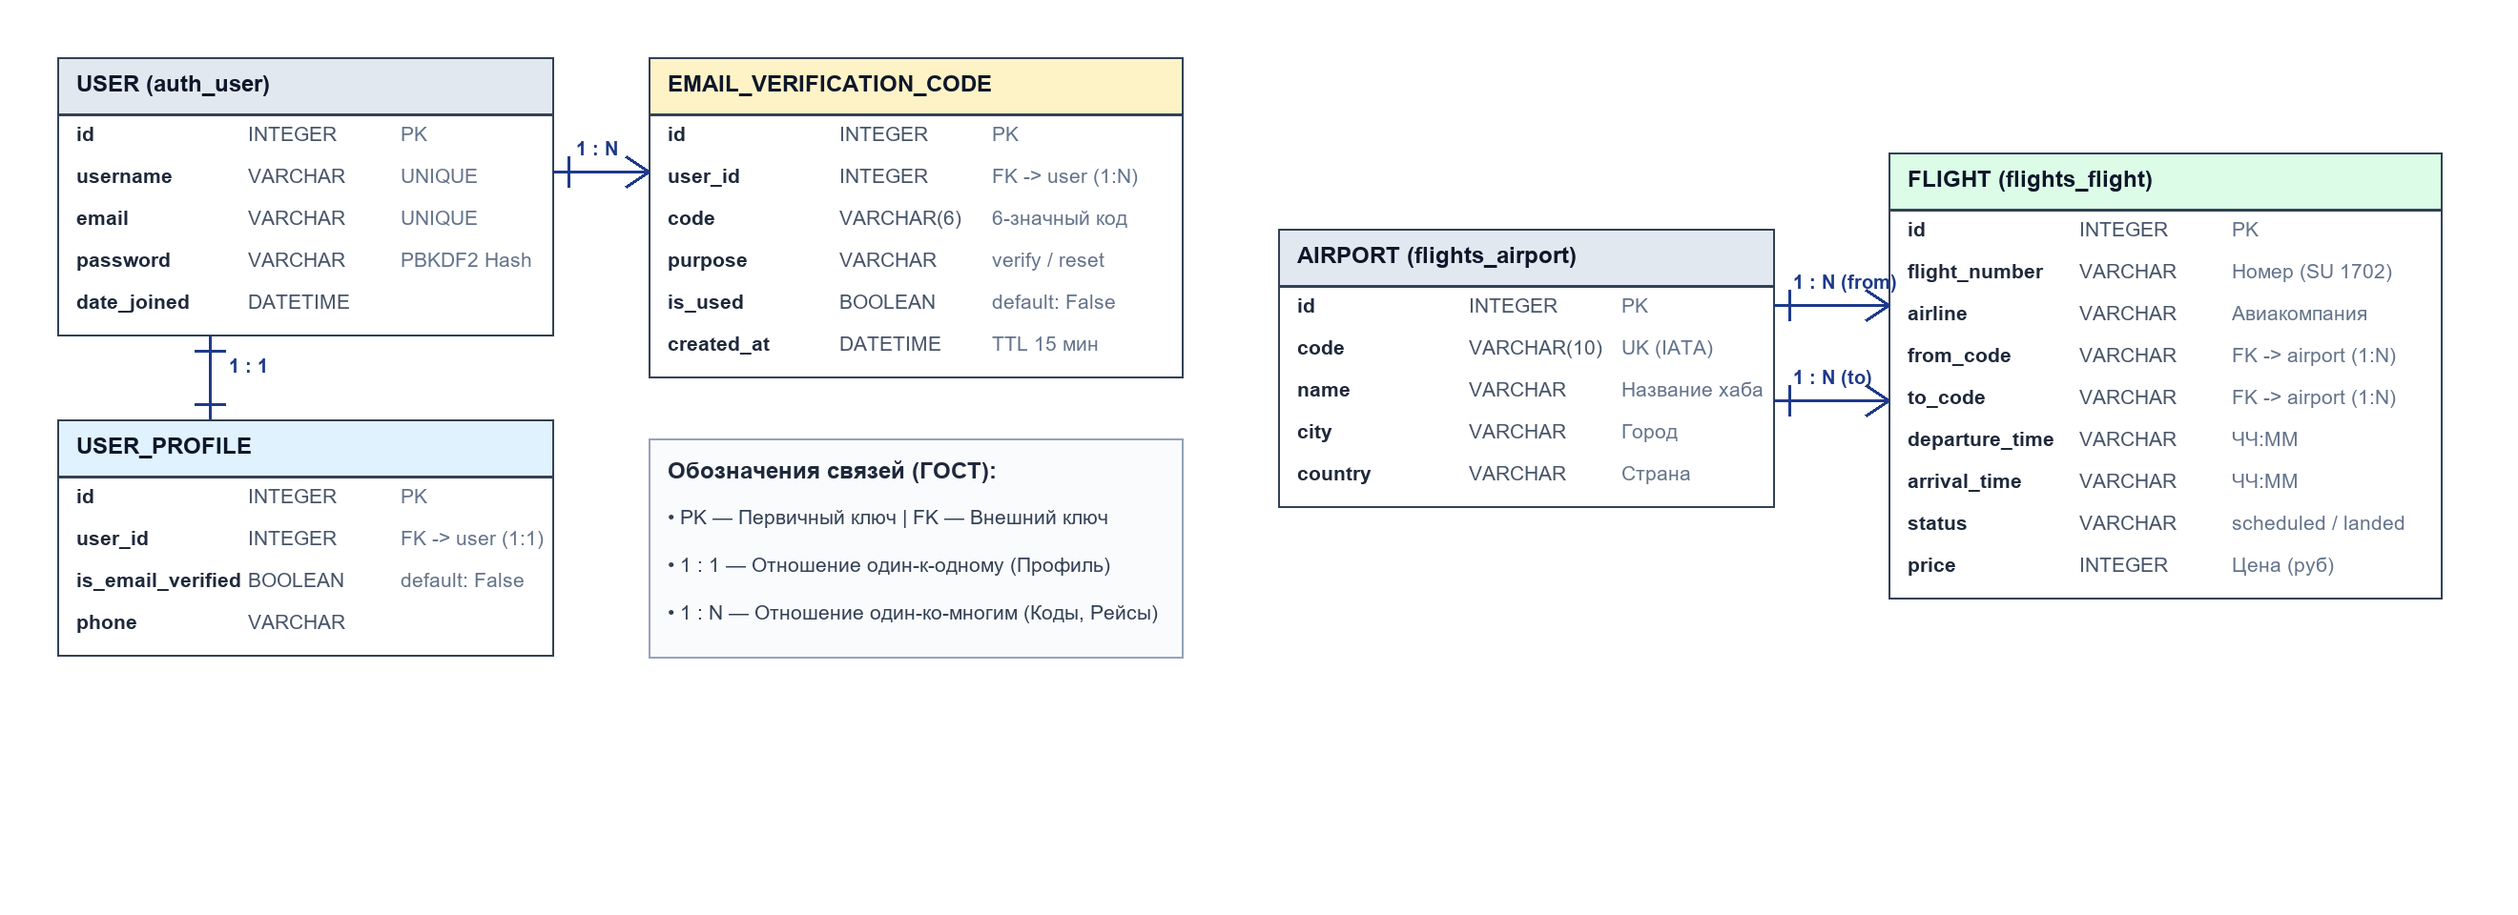
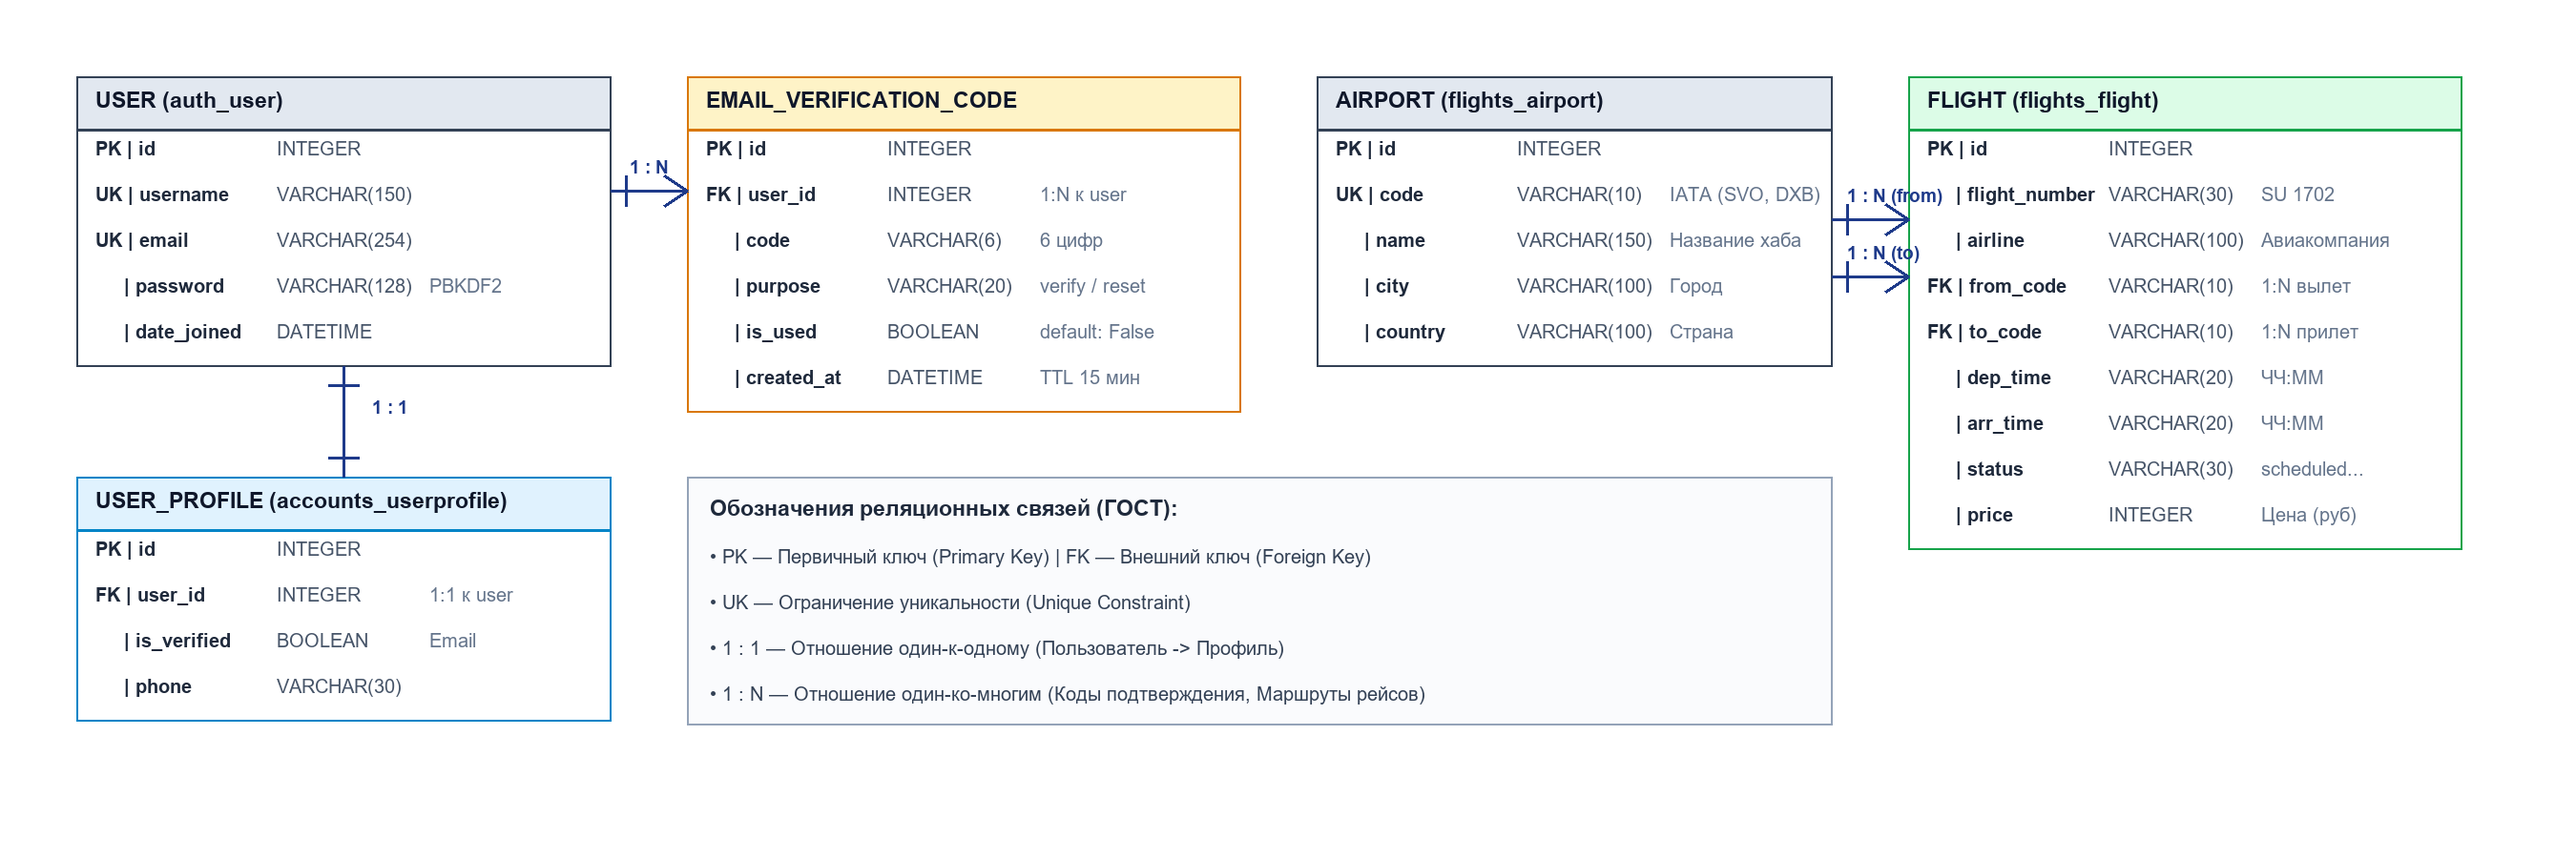
docs(diagrams): add editable draw.io file and compact 300 DPI PNG for ER diagram

diff --git a/docs/generate_er_diagram.py b/docs/generate_er_diagram.py
@@ -3,8 +3,7 @@ from PIL import Image, ImageDraw, ImageFont
 
 def generate_compact_er_diagram_png(output_path='docs/er_diagram.png'):
     scale = 2
-    # Much more compact: 1300 x 480 (instead of 1600 x 920)
-    w, h = 1320 * scale, 480 * scale
+    w, h = 1350 * scale, 450 * scale
 
     # Pure white background
     img = Image.new('RGB', (w, h), color='#FFFFFF')
@@ -13,41 +12,41 @@ def generate_compact_er_diagram_png(output_path='docs/er_diagram.png'):
     font_bold_path = 'C:/Windows/Fonts/arialbd.ttf'
     font_path = 'C:/Windows/Fonts/arial.ttf'
 
-    font_title = ImageFont.truetype(font_bold_path, 12 * scale)
-    font_field_bold = ImageFont.truetype(font_bold_path, 10.5 * scale)
-    font_field_reg = ImageFont.truetype(font_path, 10.5 * scale)
-    font_rel = ImageFont.truetype(font_bold_path, 10 * scale)
+    font_title = ImageFont.truetype(font_bold_path, 11.5 * scale)
+    font_field_bold = ImageFont.truetype(font_bold_path, 10 * scale)
+    font_field_reg = ImageFont.truetype(font_path, 10 * scale)
+    font_rel = ImageFont.truetype(font_bold_path, 9.5 * scale)
 
     def S(val):
         return int(val * scale)
 
     # Helper: draw table card
-    def draw_table(x, y, tw, title, fields, title_bg='#F1F5F9'):
-        th = 30
-        row_h = 22
-        total_h = th + len(fields) * row_h + 6
+    def draw_table(x, y, tw, title, fields, title_bg='#F1F5F9', border_color='#334155'):
+        th = 28
+        row_h = 24
+        total_h = th + len(fields) * row_h + 4
 
         # Header background
-        draw.rectangle([S(x), S(y), S(x + tw), S(y + th)], fill=title_bg, outline='#334155', width=S(1.2))
-        draw.text((S(x + 10), S(y + 7)), title, font=font_title, fill='#0F172A')
+        draw.rectangle([S(x), S(y), S(x + tw), S(y + th)], fill=title_bg, outline=border_color, width=S(1.2))
+        draw.text((S(x + 10), S(y + 6)), title, font=font_title, fill='#0F172A')
 
         # Body background
-        draw.rectangle([S(x), S(y + th), S(x + tw), S(y + total_h)], fill='#FFFFFF', outline='#334155', width=S(1.2))
+        draw.rectangle([S(x), S(y + th), S(x + tw), S(y + total_h)], fill='#FFFFFF', outline=border_color, width=S(1.2))
 
         # Fields
         cur_y = y + th + 4
         for fld in fields:
             name, ftype, note = fld[0], fld[1], fld[2] if len(fld) > 2 else ""
             
-            # Name & key
+            # Key / Name
             draw.text((S(x + 10), S(cur_y)), name, font=font_field_bold, fill='#1E293B')
             
             # Type
-            draw.text((S(x + 100), S(cur_y)), ftype, font=font_field_reg, fill='#475569')
+            draw.text((S(x + 105), S(cur_y)), ftype, font=font_field_reg, fill='#475569')
 
             # Note / constraint
             if note:
-                draw.text((S(x + 180), S(cur_y)), note, font=font_field_reg, fill='#64748B')
+                draw.text((S(x + 185), S(cur_y)), note, font=font_field_reg, fill='#64748B')
 
             cur_y += row_h
 
@@ -55,67 +54,66 @@ def generate_compact_er_diagram_png(output_path='docs/er_diagram.png'):
 
     # ================= 1. USER =================
     user_fields = [
-        ("id", "INTEGER", "PK"),
-        ("username", "VARCHAR", "UNIQUE"),
-        ("email", "VARCHAR", "UNIQUE"),
-        ("password", "VARCHAR", "PBKDF2 Hash"),
-        ("date_joined", "DATETIME", ""),
+        ("PK | id", "INTEGER", ""),
+        ("UK | username", "VARCHAR(150)", ""),
+        ("UK | email", "VARCHAR(254)", ""),
+        ("     | password", "VARCHAR(128)", "PBKDF2"),
+        ("     | date_joined", "DATETIME", ""),
     ]
-    u_x, u_y, u_w, u_h = draw_table(30, 30, 260, "USER (auth_user)", user_fields, '#E2E8F0')
+    u_x, u_y, u_w, u_h = draw_table(40, 40, 280, "USER (auth_user)", user_fields, '#E2E8F0')
 
     # ================= 2. USER_PROFILE =================
     profile_fields = [
-        ("id", "INTEGER", "PK"),
-        ("user_id", "INTEGER", "FK -> user (1:1)"),
-        ("is_email_verified", "BOOLEAN", "default: False"),
-        ("phone", "VARCHAR", ""),
+        ("PK | id", "INTEGER", ""),
+        ("FK | user_id", "INTEGER", "1:1 к user"),
+        ("     | is_verified", "BOOLEAN", "Email"),
+        ("     | phone", "VARCHAR(30)", ""),
     ]
-    p_x, p_y, p_w, p_h = draw_table(30, 220, 260, "USER_PROFILE", profile_fields, '#E0F2FE')
+    p_x, p_y, p_w, p_h = draw_table(40, 250, 280, "USER_PROFILE (accounts_userprofile)", profile_fields, '#E0F2FE', '#0284C7')
 
     # ================= 3. EMAIL_VERIFICATION_CODE =================
     code_fields = [
-        ("id", "INTEGER", "PK"),
-        ("user_id", "INTEGER", "FK -> user (1:N)"),
-        ("code", "VARCHAR(6)", "6-значный код"),
-        ("purpose", "VARCHAR", "verify / reset"),
-        ("is_used", "BOOLEAN", "default: False"),
-        ("created_at", "DATETIME", "TTL 15 мин"),
+        ("PK | id", "INTEGER", ""),
+        ("FK | user_id", "INTEGER", "1:N к user"),
+        ("     | code", "VARCHAR(6)", "6 цифр"),
+        ("     | purpose", "VARCHAR(20)", "verify / reset"),
+        ("     | is_used", "BOOLEAN", "default: False"),
+        ("     | created_at", "DATETIME", "TTL 15 мин"),
     ]
-    c_x, c_y, c_w, c_h = draw_table(340, 30, 280, "EMAIL_VERIFICATION_CODE", code_fields, '#FEF3C7')
+    c_x, c_y, c_w, c_h = draw_table(360, 40, 290, "EMAIL_VERIFICATION_CODE", code_fields, '#FEF3C7', '#D97706')
 
     # ================= 4. AIRPORT =================
     airport_fields = [
-        ("id", "INTEGER", "PK"),
-        ("code", "VARCHAR(10)", "UK (IATA)"),
-        ("name", "VARCHAR", "Название хаба"),
-        ("city", "VARCHAR", "Город"),
-        ("country", "VARCHAR", "Страна"),
+        ("PK | id", "INTEGER", ""),
+        ("UK | code", "VARCHAR(10)", "IATA (SVO, DXB)"),
+        ("     | name", "VARCHAR(150)", "Название хаба"),
+        ("     | city", "VARCHAR(100)", "Город"),
+        ("     | country", "VARCHAR(100)", "Страна"),
     ]
-    a_x, a_y, a_w, a_h = draw_table(670, 120, 260, "AIRPORT (flights_airport)", airport_fields, '#E2E8F0')
+    a_x, a_y, a_w, a_h = draw_table(690, 40, 270, "AIRPORT (flights_airport)", airport_fields, '#E2E8F0')
 
     # ================= 5. FLIGHT =================
     flight_fields = [
-        ("id", "INTEGER", "PK"),
-        ("flight_number", "VARCHAR", "Номер (SU 1702)"),
-        ("airline", "VARCHAR", "Авиакомпания"),
-        ("from_code", "VARCHAR", "FK -> airport (1:N)"),
-        ("to_code", "VARCHAR", "FK -> airport (1:N)"),
-        ("departure_time", "VARCHAR", "ЧЧ:ММ"),
-        ("arrival_time", "VARCHAR", "ЧЧ:ММ"),
-        ("status", "VARCHAR", "scheduled / landed"),
-        ("price", "INTEGER", "Цена (руб)"),
+        ("PK | id", "INTEGER", ""),
+        ("     | flight_number", "VARCHAR(30)", "SU 1702"),
+        ("     | airline", "VARCHAR(100)", "Авиакомпания"),
+        ("FK | from_code", "VARCHAR(10)", "1:N вылет"),
+        ("FK | to_code", "VARCHAR(10)", "1:N прилет"),
+        ("     | dep_time", "VARCHAR(20)", "ЧЧ:ММ"),
+        ("     | arr_time", "VARCHAR(20)", "ЧЧ:ММ"),
+        ("     | status", "VARCHAR(30)", "scheduled..."),
+        ("     | price", "INTEGER", "Цена (руб)"),
     ]
-    f_x, f_y, f_w, f_h = draw_table(990, 80, 290, "FLIGHT (flights_flight)", flight_fields, '#DCFCE7')
+    f_x, f_y, f_w, f_h = draw_table(1000, 40, 290, "FLIGHT (flights_flight)", flight_fields, '#DCFCE7', '#16A34A')
 
-    # ================= RELATIONSHIP ARROWS =================
+    # ================= СВЯЗИ (RELATIONSHIPS) =================
     c_line = '#1E3A8A'
 
     # 1. USER -> USER_PROFILE (1 : 1, vertical)
-    draw.line([S(u_x + 80), S(u_y + u_h), S(u_x + 80), S(p_y)], fill=c_line, width=S(1.8))
-    # 1:1 cross marks
-    draw.line([S(u_x + 72), S(u_y + u_h + 8), S(u_x + 88), S(u_y + u_h + 8)], fill=c_line, width=S(1.8))
-    draw.line([S(u_x + 72), S(p_y - 8), S(u_x + 88), S(p_y - 8)], fill=c_line, width=S(1.8))
-    draw.text((S(u_x + 90), S(u_y + u_h + 10)), "1 : 1", font=font_rel, fill=c_line)
+    draw.line([S(u_x + 140), S(u_y + u_h), S(u_x + 140), S(p_y)], fill=c_line, width=S(1.8))
+    draw.line([S(u_x + 132), S(u_y + u_h + 10), S(u_x + 148), S(u_y + u_h + 10)], fill=c_line, width=S(1.8))
+    draw.line([S(u_x + 132), S(p_y - 10), S(u_x + 148), S(p_y - 10)], fill=c_line, width=S(1.8))
+    draw.text((S(u_x + 155), S(u_y + u_h + 16)), "1 : 1", font=font_rel, fill=c_line)
 
     # 2. USER -> EMAIL_VERIFICATION_CODE (1 : N, horizontal)
     y_uc = u_y + 60
@@ -124,36 +122,36 @@ def generate_compact_er_diagram_png(output_path='docs/er_diagram.png'):
     # Crow foot
     draw.line([S(c_x - 12), S(y_uc - 8), S(c_x), S(y_uc)], fill=c_line, width=S(1.8))
     draw.line([S(c_x - 12), S(y_uc + 8), S(c_x), S(y_uc)], fill=c_line, width=S(1.8))
-    draw.text((S(u_x + u_w + 12), S(y_uc - 18)), "1 : N", font=font_rel, fill=c_line)
+    draw.text((S(u_x + u_w + 10), S(y_uc - 18)), "1 : N", font=font_rel, fill=c_line)
 
-    # 3. AIRPORT -> FLIGHT (1 : N, from_code and to_code)
-    y_af_1 = 160
-    draw.line([S(a_x + a_w), S(y_af_1), S(f_x), S(y_af_1)], fill=c_line, width=S(1.8))
-    draw.line([S(a_x + a_w + 8), S(y_af_1 - 8), S(a_x + a_w + 8), S(y_af_1 + 8)], fill=c_line, width=S(1.8))
-    # Crow foot
-    draw.line([S(f_x - 12), S(y_af_1 - 8), S(f_x), S(y_af_1)], fill=c_line, width=S(1.8))
-    draw.line([S(f_x - 12), S(y_af_1 + 8), S(f_x), S(y_af_1)], fill=c_line, width=S(1.8))
-    draw.text((S(a_x + a_w + 10), S(y_af_1 - 18)), "1 : N (from)", font=font_rel, fill=c_line)
+    # 3. AIRPORT -> FLIGHT (from_code, 1:N)
+    y_af_from = 115
+    draw.line([S(a_x + a_w), S(y_af_from), S(f_x), S(y_af_from)], fill=c_line, width=S(1.8))
+    draw.line([S(a_x + a_w + 8), S(y_af_from - 8), S(a_x + a_w + 8), S(y_af_from + 8)], fill=c_line, width=S(1.8))
+    draw.line([S(f_x - 12), S(y_af_from - 8), S(f_x), S(y_af_from)], fill=c_line, width=S(1.8))
+    draw.line([S(f_x - 12), S(y_af_from + 8), S(f_x), S(y_af_from)], fill=c_line, width=S(1.8))
+    draw.text((S(a_x + a_w + 8), S(y_af_from - 18)), "1 : N (from)", font=font_rel, fill=c_line)
 
-    y_af_2 = 210
-    draw.line([S(a_x + a_w), S(y_af_2), S(f_x), S(y_af_2)], fill=c_line, width=S(1.8))
-    draw.line([S(a_x + a_w + 8), S(y_af_2 - 8), S(a_x + a_w + 8), S(y_af_2 + 8)], fill=c_line, width=S(1.8))
-    # Crow foot
-    draw.line([S(f_x - 12), S(y_af_2 - 8), S(f_x), S(y_af_2)], fill=c_line, width=S(1.8))
-    draw.line([S(f_x - 12), S(y_af_2 + 8), S(f_x), S(y_af_2)], fill=c_line, width=S(1.8))
-    draw.text((S(a_x + a_w + 10), S(y_af_2 - 18)), "1 : N (to)", font=font_rel, fill=c_line)
+    # 4. AIRPORT -> FLIGHT (to_code, 1:N)
+    y_af_to = 145
+    draw.line([S(a_x + a_w), S(y_af_to), S(f_x), S(y_af_to)], fill=c_line, width=S(1.8))
+    draw.line([S(a_x + a_w + 8), S(y_af_to - 8), S(a_x + a_w + 8), S(y_af_to + 8)], fill=c_line, width=S(1.8))
+    draw.line([S(f_x - 12), S(y_af_to - 8), S(f_x), S(y_af_to)], fill=c_line, width=S(1.8))
+    draw.line([S(f_x - 12), S(y_af_to + 8), S(f_x), S(y_af_to)], fill=c_line, width=S(1.8))
+    draw.text((S(a_x + a_w + 8), S(y_af_to - 18)), "1 : N (to)", font=font_rel, fill=c_line)
 
-    # Legend at bottom right
-    leg_x, leg_y = 340, 230
-    draw.rectangle([S(leg_x), S(leg_y), S(leg_x + 280), S(leg_y + 115)], fill='#FAFBFD', outline='#94A3B8', width=S(1))
-    draw.text((S(leg_x + 10), S(leg_y + 10)), "Обозначения связей (ГОСТ):", font=font_title, fill='#1E293B')
-    draw.text((S(leg_x + 10), S(leg_y + 35)), "• PK — Первичный ключ | FK — Внешний ключ", font=font_field_reg, fill='#334155')
-    draw.text((S(leg_x + 10), S(leg_y + 60)), "• 1 : 1 — Отношение один-к-одному (Профиль)", font=font_field_reg, fill='#334155')
-    draw.text((S(leg_x + 10), S(leg_y + 85)), "• 1 : N — Отношение один-ко-многим (Коды, Рейсы)", font=font_field_reg, fill='#334155')
+    # ================= ЛЕГЕНДА =================
+    leg_x, leg_y = 360, 250
+    draw.rectangle([S(leg_x), S(leg_y), S(leg_x + 600), S(leg_y + 130)], fill='#FAFBFD', outline='#94A3B8', width=S(1))
+    draw.text((S(leg_x + 12), S(leg_y + 10)), "Обозначения реляционных связей (ГОСТ):", font=font_title, fill='#1E293B')
+    draw.text((S(leg_x + 12), S(leg_y + 36)), "• PK — Первичный ключ (Primary Key) | FK — Внешний ключ (Foreign Key)", font=font_field_reg, fill='#334155')
+    draw.text((S(leg_x + 12), S(leg_y + 60)), "• UK — Ограничение уникальности (Unique Constraint)", font=font_field_reg, fill='#334155')
+    draw.text((S(leg_x + 12), S(leg_y + 84)), "• 1 : 1 — Отношение один-к-одному (Пользователь -> Профиль)", font=font_field_reg, fill='#334155')
+    draw.text((S(leg_x + 12), S(leg_y + 108)), "• 1 : N — Отношение один-ко-многим (Коды подтверждения, Маршруты рейсов)", font=font_field_reg, fill='#334155')
 
     os.makedirs(os.path.dirname(output_path), exist_ok=True)
     img.save(output_path, dpi=(300, 300))
-    print(f"Compact ER diagram PNG generated: {output_path}")
+    print(f"Compact ER diagram PNG regenerated: {output_path}")
 
 if __name__ == '__main__':
     generate_compact_er_diagram_png()
